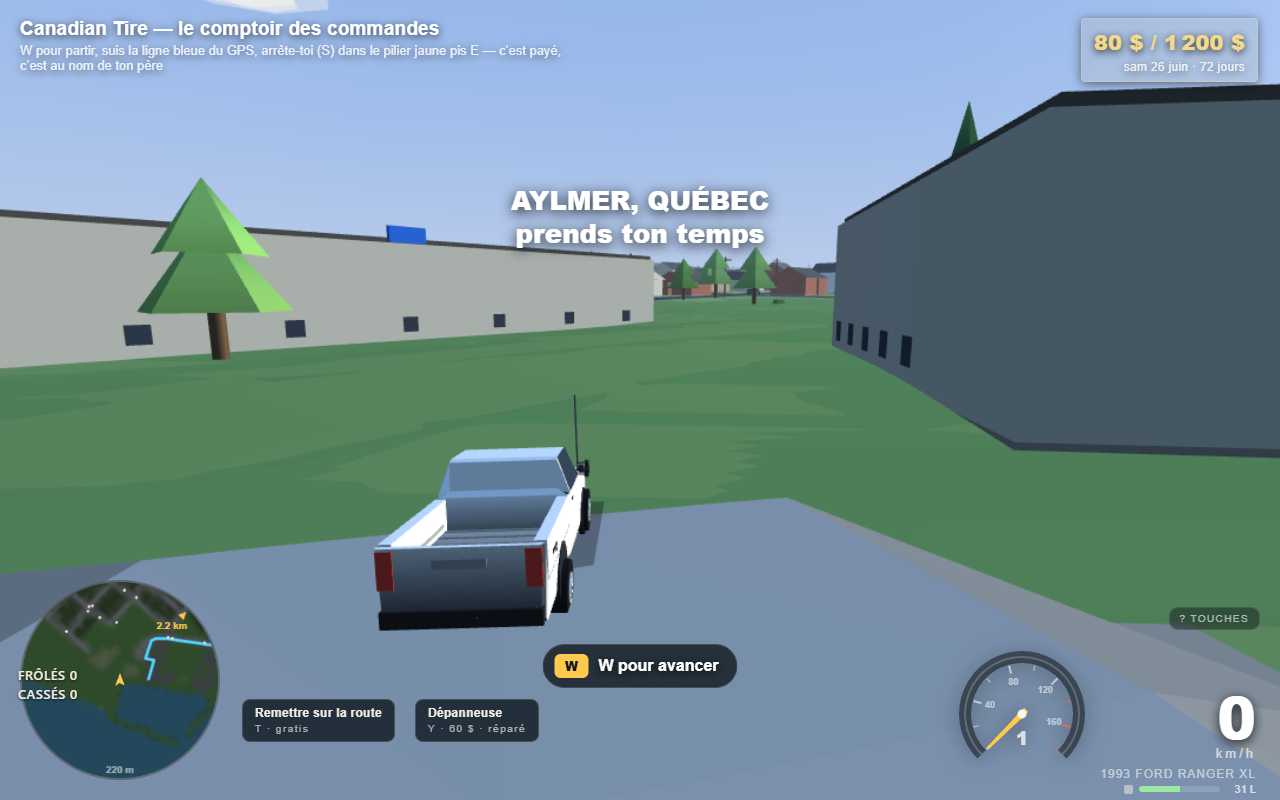
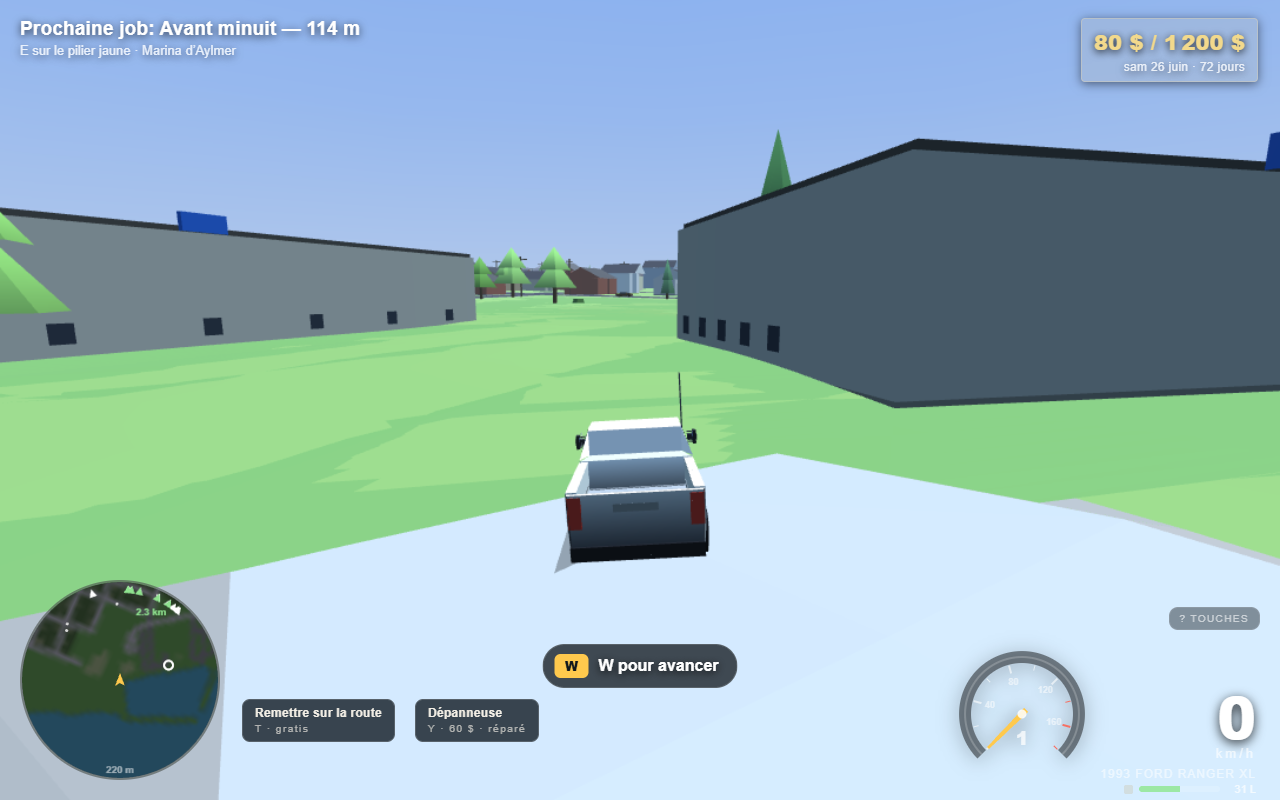
Nine hero buildings that were sixteen to twenty-seven metres underground
world.js drapes the town on the raster; landmarks.js still baked its nine hero
sites at absolute y, so five of them were buried — Les Galeries by 26.7 m, the
Hôtel British 21.5, Lord Aylmer 19.2, 129 Frank-Robinson 18.8, Symmes Junior
High 15.9.

None of the nine builders changed. A site is baked exactly as it was written,
at y = 0, and the finished vertex buffer is then carried whole to the ground
under it: one strided pass, bounds included, because Renderer.visible
frustum-tests min/max and a school still claiming to be at sea level is a
school that vanishes when you look up the hill at it. Sites read baseAt — the
raster alone, the same rule world.js uses for every other building, since
terrain features are their own meshes drawn on top of it. Les Galeries is the
one exception and says so with `ground: true`: its doorway opens onto
terrain.js's galeriesApron. The apron is H = 0 today so both fields agree at
all nine sites to the millimetre; the flag is there so that stops being luck.

The marquee boards are one mesh for all eight, so each board takes its own
site's height. COUCH.y stays 5.62 — that is a height up a maple, not above a
river, and the limbs it is wedged in ride the same lift — and
world.landmarks.couch.y is now the absolute 24.41 m.

Also the two things A3 left on the floor. cars.js recover() handed reset()
three arguments because lastSafe carried no height; lastSafe carries y now,
[…]

diff --git a/src/game/landmarks.js b/src/game/landmarks.js
@@ -25,6 +25,13 @@
 // is flat, it is cheap, and seeing the lot from the road is how you know where
 // to turn in.
 //
+// HEIGHT. Every builder below measures y from the pavement — the ground under
+// the site is 0, a sill is 1.15, a cornice 11.4. That was an absolute height
+// while the town was flat; the town is on a LiDAR hillside now, so bakeSite()
+// carries the finished vertex buffer up to the ground under the site and
+// nothing between here and there had to change. The nine sites sit between
+// -0.4 m at the marina and 26.7 m at Les Galeries. See bakeSite / siteHeights.
+//
 // OWNERSHIP NOTE. world.js, places.js and cars.js belong to other agents this
 // wave, so nothing here edits them:
 //   * hero footprints already in OSM are collapsed in MAP at import time
@@ -33,7 +40,7 @@
 //   * colliders and the draw call are wrapped onto the object buildWorld
 //     returns (`installLandmarks`).
 // See the fold-back list at the bottom of the file.
-import { MeshBuilder, rgb, shade } from '../core/mesh.js';
+import { MeshBuilder, STRIDE, rgb, shade } from '../core/mesh.js';
 import { MAP } from './mapdata.js';
 import { PLACES } from './places.js';
 import { TILES } from './materials_stub.js';
@@ -1173,7 +1180,10 @@ const MK = { id: 473653319, cx: -428.3, cz: 58.3, yaw: -0.096, fz: 53.7, mz: 56.
 export const MIKE_MAPLE = { x: -417.5, z: 57.0, crownY: 6.4 };
 // Wedged in the fork between the two lowest limbs and pushed far enough out
 // along them that a good third of it clears the foliage — the whole point is
-// that you can see it from the road if you look up.
+// that you can see it from the road if you look up. `y` is 5.62 m up the TREE,
+// not 5.62 m above the river: how high a couch is lodged in a maple is a fact
+// about the maple, and Frank-Robinson happens to be nineteen metres up a hill.
+// installLandmarks adds the lawn; world.landmarks.couch.y is the absolute one.
 export const COUCH = {
   x: MIKE_MAPLE.x + 2.95, y: 5.62, z: MIKE_MAPLE.z + 0.44, yaw: -0.55, roll: 0.17, pitch: 0.09,
 };
@@ -1262,17 +1272,20 @@ function tintOrFlat(K, mat, t) { on(K, mat); return t; }
 
 // The couch, in its own builder so it can be lifted in and out. Reuses the same
 // 1977 plaid brown as props.js rather than inventing a second chesterfield.
-function buildCouchMesh() {
+// `y0` is the lawn at 129 Frank-Robinson, the same metres the mike bake is
+// carried up: the limbs it rests on are part of that bake, and a couch that did
+// not go up with them would be a couch hanging in the air over Aylmer.
+function buildCouchMesh(y0 = 0) {
   const mb = new MeshBuilder();
   const base = rgb(0x8a5f3a), dark = rgb(0x6d4a2c), cush = rgb(0xa0764a), leg = rgb(0x3b2a1c);
-  const c = COUCH;
+  const c = COUCH, cyy = c.y + y0;
   const cy = Math.cos(c.yaw), sy = Math.sin(c.yaw);
   // Yaw is a real rotation; roll and pitch are applied as a shear on the box
   // CENTRES — MeshBuilder.box only turns about Y, and for something this small,
   // wedged in a fork and seen from thirty metres below, a shear reads as a tilt.
   const kr = Math.tan(c.roll), kp = Math.tan(c.pitch);
   const put = (lx, ly, lz, w, h, d, col) => {
-    mb.box(c.x + lx * cy - lz * sy, c.y + ly + lx * kr - lz * kp, c.z + lx * sy + lz * cy,
+    mb.box(c.x + lx * cy - lz * sy, cyy + ly + lx * kr - lz * kp, c.z + lx * sy + lz * cy,
       w, h, d, col, { yaw: -c.yaw });
   };
   put(0, 0.0, 0, 1.95, 0.34, 0.86, base);                       // frame
@@ -1291,7 +1304,7 @@ function buildCouchMesh() {
 export const LANDMARK_FLAGS = { couchInTree: true };
 
 /** The couch mesh, unuploaded — for tools/preview_landmarks.mjs and the tests. */
-export function buildCouchPreview() { const b = buildCouchMesh(); b.finish(); return b; }
+export function buildCouchPreview(y0 = 0) { const b = buildCouchMesh(y0); b.finish(); return b; }
 
 function siteMike(K) {
   // gravel drive on the Smiley side, the corner sidewalk, and the street-name
@@ -1488,7 +1501,10 @@ export const SITES = [
       board: '#243a4a' } },
   // No `hide`: the mall's own footprint stays exactly as it is and this bolts a
   // door onto it. See GALERIES_DOOR above for the point missions aim at.
-  { key: 'galeries', cx: GA.cx, cz: GA.cz, r: 46, near: HERO_NEAR,
+  // `ground: true` — the doorway opens onto terrain.js's `galeriesApron`, so
+  // this one site stands on the feature and not on the raster under it. See
+  // siteHeights().
+  { key: 'galeries', cx: GA.cx, cz: GA.cz, r: 46, near: HERO_NEAR, ground: true,
     build: buildGaleries, site: siteGaleries,
     // Off to one side of the doors, not in front of them: a board in the middle
     // of your own windscreen on the way in is a board you cannot read.
@@ -1570,9 +1586,27 @@ function runBuild(s, K) {
   else s.build(K);
 }
 
-// Build one site into three MeshBuilders. Pure: no GL, no DOM — the smoke test
-// calls it with materials_stub and counts triangles.
-export function bakeSite(s, mats) {
+// Every builder above measures y from the pavement: a sill is at 1.15 m, a
+// cornice at 11.4, the couch 5.62 m up a maple. That was an absolute height for
+// as long as the town was flat and it is a height ABOVE THE GROUND now that it
+// is not, so a site is baked exactly as it always was and then carried, whole,
+// up the hill it stands on. One pass over the vertex buffer, no allocation, and
+// nothing above has to know what the ground is doing — which is the only reason
+// nine hand-written buildings did not have to be rewritten.
+//
+// The bounds go up with it. `Renderer.visible` frustum-tests min/max, and a
+// school whose box still claims to be at sea level is a school that vanishes
+// when you look up the hill at it.
+function lift(b, dy) {
+  const v = b.v;
+  for (let i = 1; i < v.length; i += STRIDE) v[i] += dy;
+  if (v.length) { b.min[1] += dy; b.max[1] += dy; }
+}
+
+// Build one site into three MeshBuilders, `y0` metres up. Pure: no GL, no DOM —
+// the smoke test calls it with materials_stub and counts triangles, and the
+// preview tool calls it at y0 = 0 to draw the building on its own.
+export function bakeSite(s, mats, y0 = 0) {
   const near = new MeshBuilder(), far = new MeshBuilder(), site = new MeshBuilder();
   runBuild(s, kit(near, mats, true, s.cx, s.cz));
   runBuild(s, kit(far, PLAIN, false, s.cx, s.cz));
@@ -1580,7 +1614,29 @@ export function bakeSite(s, mats) {
   s.site(KS);
   if (s.sign) signFrame(KS, s.sign);
   near.finish(); far.finish(); site.finish();
+  if (y0) for (const b of [near, far, site]) lift(b, y0);
   return { near, far, site };
+}
+
+// The height a site's y = 0 sits at, per site.
+//
+// `baseAt` is the LiDAR raster on its own and is what world.js drapes every
+// other building, road and tree on: terrain.js's features are separate meshes
+// drawn ON the raster, so a building that read `groundAt` next to the rail berm
+// would climb the berm the berm's own geometry already covers. A site whose
+// ground genuinely IS a feature is the exception, and says so with `ground:
+// true` — Les Galeries stands on the south apron, which is concrete the driving
+// model knows about rather than lawn. The apron is H = 0 today, so the two
+// fields agree at all nine sites to the millimetre; the flag is there so that
+// stops being luck the day somebody gives the apron a lip.
+function siteHeights(world) {
+  const m = new Map();
+  for (const s of SITES) {
+    const f = s.ground ? (world && world.groundAt) : (world && world.baseAt);
+    const h = f ? f(s.cx, s.cz).h : 0;
+    m.set(s.key, Number.isFinite(h) ? h : 0);
+  }
+  return m;
 }
 
 // Colliders. buildWorld keeps `addSegment` to itself, so hero walls register
@@ -1658,7 +1714,10 @@ function signFrame(K, g) {
     { yaw: -g.yaw + Math.PI / 2, noBottom: true, top: flat(0x8a857b) });
 }
 
-function buildSignMesh(renderer) {
+// `ground` is the Map siteHeights() built: one mesh for every board, but each
+// board is pinned to its own site's patch of hillside, and two of them are
+// twenty metres apart vertically.
+function buildSignMesh(renderer, ground) {
   if (typeof document === 'undefined' || !document.createElement) return null;
   const boards = SITES.filter((s) => s.sign);
   const cv = document.createElement('canvas');
@@ -1682,16 +1741,17 @@ function buildSignMesh(renderer) {
     ctx.fillText(g.sub, SIGN_W / 2, py + 106, SIGN_W - 60);
     const v0 = (py + 2) / cv.height, v1 = (py + SIGN_H - 2) / cv.height;
     const hw = g.w / 2;
+    const y = g.y + ((ground && ground.get(s.key)) || 0);
     // Both faces, so a sign reads whichever way you drive past it.
     for (const side of [1, -1]) {
       const nx = -Math.sin(g.yaw) * side, nz = Math.cos(g.yaw) * side;
       const dx = Math.cos(g.yaw) * side, dz = Math.sin(g.yaw) * side;
       const ax = g.x - dx * hw + nx * 0.13, az = g.z - dz * hw + nz * 0.13;
       const bx = g.x + dx * hw + nx * 0.13, bz = g.z + dz * hw + nz * 0.13;
-      const b = mb.vert(ax, g.y, az, nx, 0, nz, white, 0.002, v1);
-      mb.vert(bx, g.y, bz, nx, 0, nz, white, 0.998, v1);
-      mb.vert(bx, g.y + g.h, bz, nx, 0, nz, white, 0.998, v0);
-      mb.vert(ax, g.y + g.h, az, nx, 0, nz, white, 0.002, v0);
+      const b = mb.vert(ax, y, az, nx, 0, nz, white, 0.002, v1);
+      mb.vert(bx, y, bz, nx, 0, nz, white, 0.998, v1);
+      mb.vert(bx, y + g.h, bz, nx, 0, nz, white, 0.998, v0);
+      mb.vert(ax, y + g.h, az, nx, 0, nz, white, 0.002, v0);
       mb.tri(b, b + 1, b + 2); mb.tri(b, b + 2, b + 3);
     }
   });
@@ -1712,20 +1772,26 @@ function buildSignMesh(renderer) {
 export function installLandmarks(world, renderer, mats, opts = {}) {
   const t0 = (typeof performance !== 'undefined' ? performance.now() : Date.now());
   const built = [];
+  // The nine patches of hillside these things stand on. Read once, before the
+  // bake, so a site and its marquee board cannot end up on two different
+  // answers if anything ever makes the field stateful.
+  const ground = siteHeights(world);
   let nearT = 0, farT = 0, siteT = 0;
   for (const s of SITES) {
-    const b = bakeSite(s, mats);
+    const y0 = ground.get(s.key) || 0;
+    const b = bakeSite(s, mats, y0);
     nearT += b.near.i.length / 3; farT += b.far.i.length / 3; siteT += b.site.i.length / 3;
     built.push({
-      key: s.key, cx: s.cx, cz: s.cz, r: s.r, near2: s.near * s.near,
+      key: s.key, cx: s.cx, cz: s.cz, cy: y0, r: s.r, near2: s.near * s.near,
       nearMesh: b.near.empty ? null : renderer.upload(b.near),
       farMesh: b.far.empty ? null : renderer.upload(b.far),
       siteMesh: b.site.empty ? null : renderer.upload(b.site),
       col: bakeColliders(s),
     });
   }
-  const signs = buildSignMesh(renderer);
-  const couchB = buildCouchMesh();
+  const signs = buildSignMesh(renderer, ground);
+  const couchY = COUCH.y + (ground.get('mike') || 0);
+  const couchB = buildCouchMesh(ground.get('mike') || 0);
   couchB.finish();
   const couchMesh = renderer.upload(couchB);
   const couchTris = couchB.i.length / 3;
@@ -1735,7 +1801,7 @@ export function installLandmarks(world, renderer, mats, opts = {}) {
   // is close enough that you have stopped to look and far enough that you can
   // still see the whole tree.
   const couch = {
-    x: COUCH.x, z: COUCH.z, y: COUCH.y, radius: 26, found: false,
+    x: COUCH.x, z: COUCH.z, y: couchY, radius: 26, found: false,
     line: 'LE DIVAN EST ENCORE LÀ-HAUT\n129 Frank-Robinson — personne l’a jamais descendu',
   };
 
@@ -1806,11 +1872,14 @@ export function installLandmarks(world, renderer, mats, opts = {}) {
   // The handle the couch side job should reach for at merge time: flip
   // world.landmarks.flags.couchInTree, and read world.landmarks.couch for where
   // it came to rest.
-  world.landmarks = { sites: built, stats, signs, flags: LANDMARK_FLAGS, couch };
+  world.landmarks = { sites: built, stats, signs, flags: LANDMARK_FLAGS, couch, ground };
+  const ys = [...ground.values()];
   console.log(`landmarks: ${SITES.length} hero sites, ${nearT | 0} near + ${farT | 0} far `
     + `+ ${siteT | 0} paving + ${couchTris} couch tris, ${colliders} colliders — ${ms} ms`);
+  console.log(`landmarks: standing on ground ${Math.min(...ys).toFixed(1)} to `
+    + `${Math.max(...ys).toFixed(1)} m; the couch is ${couchY.toFixed(2)} m up`);
   return { tris: nearT + farT + siteT + couchTris, near: nearT, far: farT, site: siteT,
-    ms, colliders };
+    ms, colliders, couchY };
 }
 
 // ---------------------------------------------------------------------------

diff --git a/src/game/race.js b/src/game/race.js
@@ -136,15 +136,24 @@ export class Rival {
     this.done = 0;              // checkpoints passed (the race code owns this)
     this.progress = 0;
     this.tint = opts.tint || null;
-    // main.js's G.phys, remembered off the first update(): `place` and
-    // `unstick` both put the car down at a route point, and a route point is a
-    // flat (x, z) that the terrain has to give a height to.
+    // main.js's G.phys: `place` and `unstick` both put the car down at a route
+    // point, and a route point is a flat (x, z) that the terrain has to give a
+    // height to. place() runs BEFORE the first update() at every one of the
+    // three places a Rival is made — cops.js spawn(), racejobs.js and verbs.js
+    // spawnRival() — so all three hand it over here rather than letting the car
+    // spend its first frame at sea level. update() latches it too, and
+    // unstick() will take the world it was stepped with, so a fourth caller
+    // that forgets still only loses the height of the grid spot.
     this.phys = opts.phys || null;
   }
 
-  // Ground under a route point, or zero before anyone has stepped us.
-  groundY(x, z) {
-    return this.phys && this.phys.groundY ? this.phys.groundY(x, z) : 0;
+  // Ground under a route point. `world` is whatever update() was handed this
+  // step, as a fallback for a Rival nobody gave a `phys` to; zero if there is
+  // no height field anywhere, which is what the flat town always answered.
+  groundY(x, z, world) {
+    const p = (this.phys && this.phys.groundY) ? this.phys
+      : ((world && world.groundY) ? world : null);
+    return p ? p.groundY(x, z) : 0;
   }
 
   // The collide.js / minimap contract, so a rival can stand in for a traffic car.
@@ -392,7 +401,7 @@ export class Rival {
     if (Math.abs(v.vLong) < STUCK_MS || this.offLine() > 28) this.stuckT += dt;
     else if (noProgress) this.stuckT = STUCK_T + 1;
     else this.stuckT = 0;
-    if (this.stuckT > STUCK_T) this.unstick();
+    if (this.stuckT > STUCK_T) this.unstick(world);
 
     if (this.along() >= this.pathLength - 4) this.finished = true;
   }
@@ -408,7 +417,7 @@ export class Rival {
   // driver that resets into the same wall forever never finishes. Each failed
   // attempt in a row reaches further, up to five times as far, and one honest
   // metre of progress puts it back to a short hop.
-  unstick() {
+  unstick(world) {
     if (this.n < 2) return;
     this.stuckT = 0;
     this.progT = 0;
@@ -422,7 +431,7 @@ export class Rival {
     this.lookAhead(hop + 14, PB);
     const dx = PB[0] - PA[0], dz = PB[1] - PA[1];
     const yaw = (dx || dz) ? Math.atan2(dx, dz) : this.veh.yaw;
-    this.veh.reset(PA[0], PA[1], yaw, this.groundY(PA[0], PA[1]));
+    this.veh.reset(PA[0], PA[1], yaw, this.groundY(PA[0], PA[1], world));
     this.veh.vLong = 4;
     this.veh.vx = Math.sin(yaw) * 4;
     this.veh.vz = Math.cos(yaw) * 4;

diff --git a/src/game/cops.js b/src/game/cops.js
@@ -295,9 +295,14 @@ export class Cops {
     for (const [, s] of near) {
       const back = (s.ext || 12) + 7;
       const cx = s.x - fx * back, cz = s.z - fz * back;
+      // `y` because the barricade is parked, not driven: nothing steps these
+      // two, so the height of the road under them is sampled once, here, or
+      // they sit at sea level under the hill the lights are on.
+      const gy = (G.phys && G.phys.groundY) ? G.phys.groundY : null;
       const spots = [-1, 1].map((side) => ({
         x: cx + rx * side * 2.3, z: cz + rz * side * 2.3,
         yaw: Math.atan2(rx, rz), spin: 0,
+        y: gy ? gy(cx + rx * side * 2.3, cz + rz * side * 2.3) : 0,
       }));
       if (onRoad && !spots.every((q) => onRoad(q.x, q.z))) continue;
       for (const q of spots) { asBody(q, CRUISER); this.blocks.push(q); }
@@ -468,11 +473,11 @@ export class Cops {
     for (const u of this.units) {
       if (Math.hypot(u.x - v.x, u.z - v.z) > 400) continue;
       const c = u.veh;
-      drawCar(CRUISER, c.x, c.z, c.yaw, c.pitch, c.roll, c.spin, c.steer, null, 1, c.y);
+      drawCar(CRUISER, c.x, c.z, c.yaw, c.pitch, c.roll, c.spin, c.steer, null, 1, c.y, c.gh);
     }
     for (const b of this.blocks) {
       if (Math.hypot(b.x - v.x, b.z - v.z) > 400) continue;
-      drawCar(CRUISER, b.x, b.z, b.yaw, 0, 0, 0, 0, null, 1, 0);
+      drawCar(CRUISER, b.x, b.z, b.yaw, 0, 0, 0, 0, null, 1, b.y || 0, b.y || 0);
     }
     const r = G.renderer, mesh = G.meshes;
     if (!r || !mesh || !mesh.copPodL) return;
@@ -482,7 +487,7 @@ export class Cops {
       for (const u of list) {
         const x = u.x, z = u.z, yaw = u.yaw;
         if (Math.hypot(x - v.x, z - v.z) > 400) continue;
-        m4.compose(MM, x, u.veh ? u.veh.y : 0, z, yaw, 0, 0);
+        m4.compose(MM, x, u.veh ? u.veh.y : (u.y || 0), z, yaw, 0, 0);
         r.draw(mesh.copPodL, MM, red ? OPT_RED : OPT_DIM);
         r.draw(mesh.copPodR, MM, red ? OPT_DIM : OPT_BLUE);
       }

diff --git a/src/game/cars.js b/src/game/cars.js
@@ -1457,7 +1457,12 @@ export class Vehicle {
     this.curb = 0;
     this.lastHit = 0;
     this.misfireT = 0;
-    this.lastSafe = { x, z, yaw };
+    // Where a free reset puts you back — and how high that is. recover() used to
+    // hand reset() three arguments and drop the car at sea level, which on the
+    // hill is up to thirty metres under the road it was driving on. `y` is the
+    // same 0 this signature already defaults to, so a flat world and a caller
+    // with no height field get exactly the numbers they got before.
+    this.lastSafe = { x, z, yaw, y };
   }
 
   get speedKmh() { return Math.abs(this.vLong) * 3.6; }
@@ -1801,7 +1806,10 @@ export class Vehicle {
     } else {
       this.drowning = 0;
       if (onRoad && !this.inAir && Math.abs(vLong) > 2) {
-        this.lastSafe = { x: this.x, z: this.z, yaw: this.yaw };
+        // `gh` and not `y`: this fires with the wheels on the deck, so the two
+        // agree to the suspension, and gh is the one that means "the road was
+        // here" if a later frame catches the car a hand's breadth off it.
+        this.lastSafe = { x: this.x, z: this.z, yaw: this.yaw, y: this.gh };
       }
     }
     // Keep everyone inside the map.
@@ -2002,7 +2010,7 @@ export class Vehicle {
 
   recover() {
     const p = this.lastSafe;
-    this.reset(p.x, p.z, p.yaw);
+    this.reset(p.x, p.z, p.yaw, p.y || 0);
   }
 
   // Seat positions in local space, for drawing the friends you picked up.

diff --git a/src/game/tow.js b/src/game/tow.js
@@ -78,9 +78,15 @@ export function resetSpot(world, veh) {
 // A spot is a flat (x, z, yaw) and the terrain says how high that is, so put
 // the car down ON the road rather than at sea level underneath it.
 function place(world, veh, spot) {
-  veh.reset(spot.x, spot.z, spot.yaw,
-    world && world.groundAt ? world.groundAt(spot.x, spot.z).h : 0);
-  veh.lastSafe = { x: spot.x, z: spot.z, yaw: spot.yaw };
+  const y = groundY(world, spot.x, spot.z);
+  veh.reset(spot.x, spot.z, spot.yaw, y);
+  // The height goes into lastSafe too: the next T reads it back through
+  // Vehicle.recover(), and a road point without a height is a hole in the hill.
+  veh.lastSafe = { x: spot.x, z: spot.z, yaw: spot.yaw, y };
+}
+
+function groundY(world, x, z) {
+  return world && world.groundAt ? world.groundAt(x, z).h : 0;
 }
 
 /** T. Back on the road, damage and all, for nothing. */
@@ -124,7 +130,7 @@ export function settleSpawn(G) {
     if (spot) { place(world, veh, spot); return { moved: true, reason, name: spot.name }; }
   }
   const safe = roadSpot(world, veh.x, veh.z);
-  if (safe) veh.lastSafe = { x: safe.x, z: safe.z, yaw: safe.yaw };
+  if (safe) veh.lastSafe = { x: safe.x, z: safe.z, yaw: safe.yaw, y: groundY(world, safe.x, safe.z) };
   return { moved: false, reason: null };
 }
 

diff --git a/src/main.js b/src/main.js
@@ -2322,7 +2322,7 @@ function render(dt) {
   for (const rv of G.rivals) {                     // race agent: the friends
     const c = rv.veh;
     if (Math.hypot(c.x - v.x, c.z - v.z) > 400) continue;
-    drawCar(rv.spec, c.x, c.z, c.yaw, c.pitch, c.roll, c.spin, c.steer, null, 1, c.y);
+    drawCar(rv.spec, c.x, c.z, c.yaw, c.pitch, c.roll, c.spin, c.steer, null, 1, c.y, c.gh);
   }
   G.cops.draw(G, drawCar);                          // ...and the police
   if (G.props) G.props.draw(r, f);
